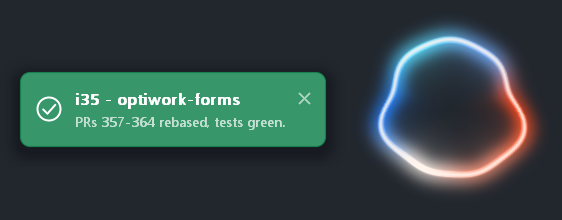
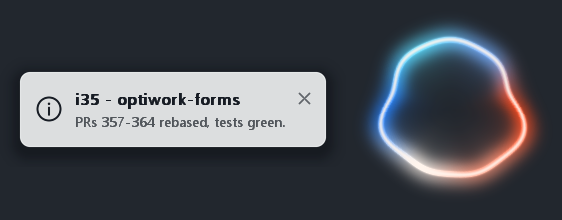
docs: re-shoot the caption image with the default variant
The hero shot was a green success card, which showed a variant rather than
what a caller gets by default. It is the light card now, and the example
under it drops --caption-variant to match: colour is opt-in, and the
Variants section below is where it is introduced.

Changed region(s): [[0.0302, 0.3273, 0.605, 0.6818]]

diff --git a/README.md b/README.md
@@ -166,7 +166,7 @@ Paths default relative to the executable, not the working directory, so
 ## Captions
 
 <p align="center">
-  <img src="docs/caption.png" width="640" alt="a green success toast with an icon, a title and one line of context, beside the orb">
+  <img src="docs/caption.png" width="640" alt="a light toast with an icon, a title and one line of context, beside the orb">
 </p>
 
 The orb says *something is speaking*. A caption says **what about**:
@@ -174,9 +174,11 @@ The orb says *something is speaking*. A caption says **what about**:
 ```bat
 speak.exe --caption-title "i35 - optiwork-forms" ^
           --caption "PRs 357-364 rebased on dev, tests green." ^
-          --caption-variant success ^
           "The forms batch is ready to merge."
 ```
+
+That is the default card, above: `light`, with the neutral `ⓘ`. Colour is opt-in
+(see below), so a caption never claims a meaning you did not ask for.
 
 Both text flags are optional and independent — a caption can be a title alone, a
 line alone, or both. The card sits to the left of the orb, which keeps its corner;
